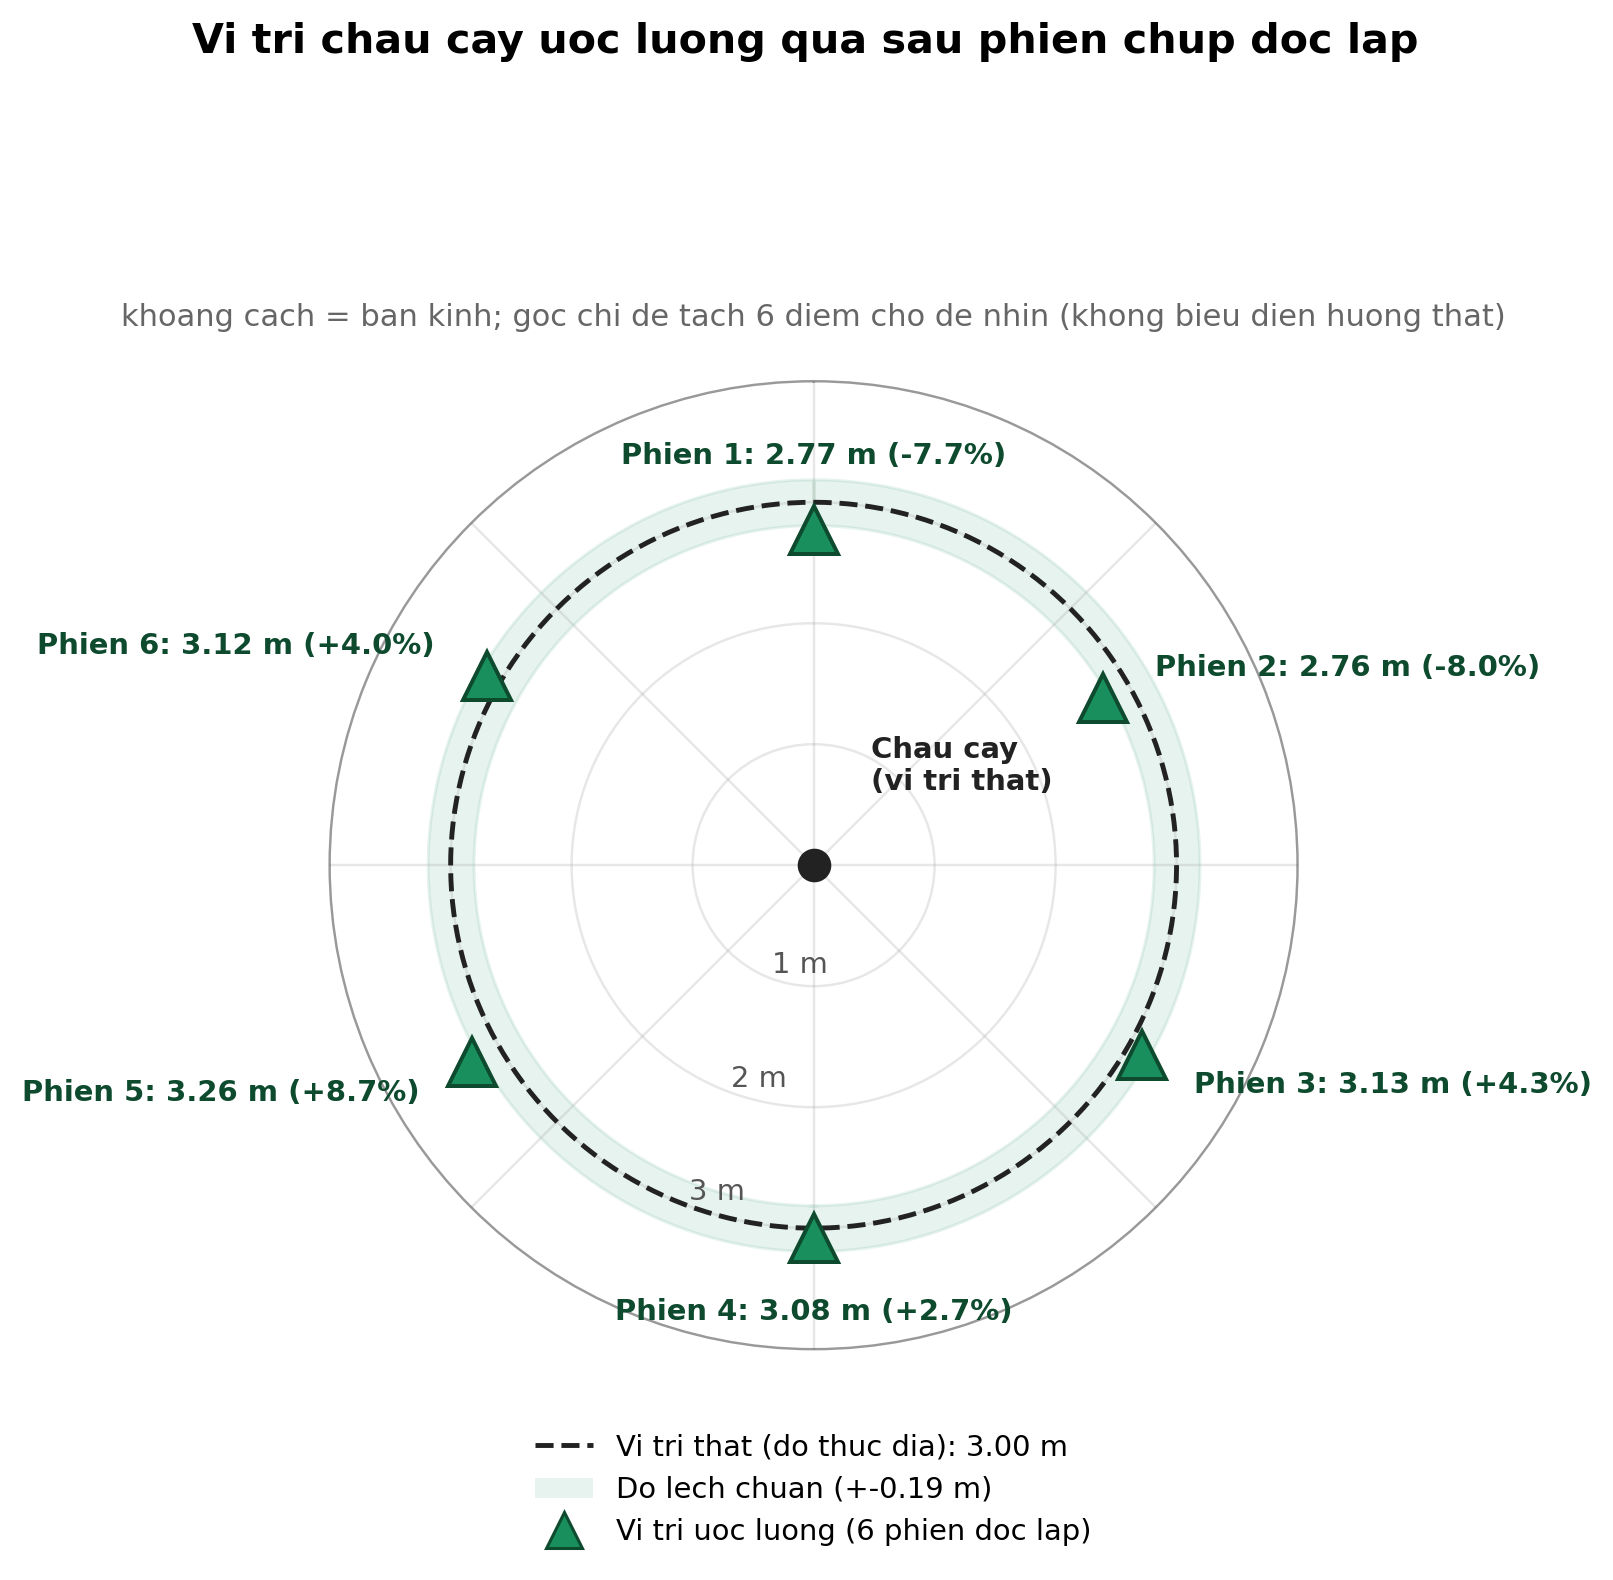
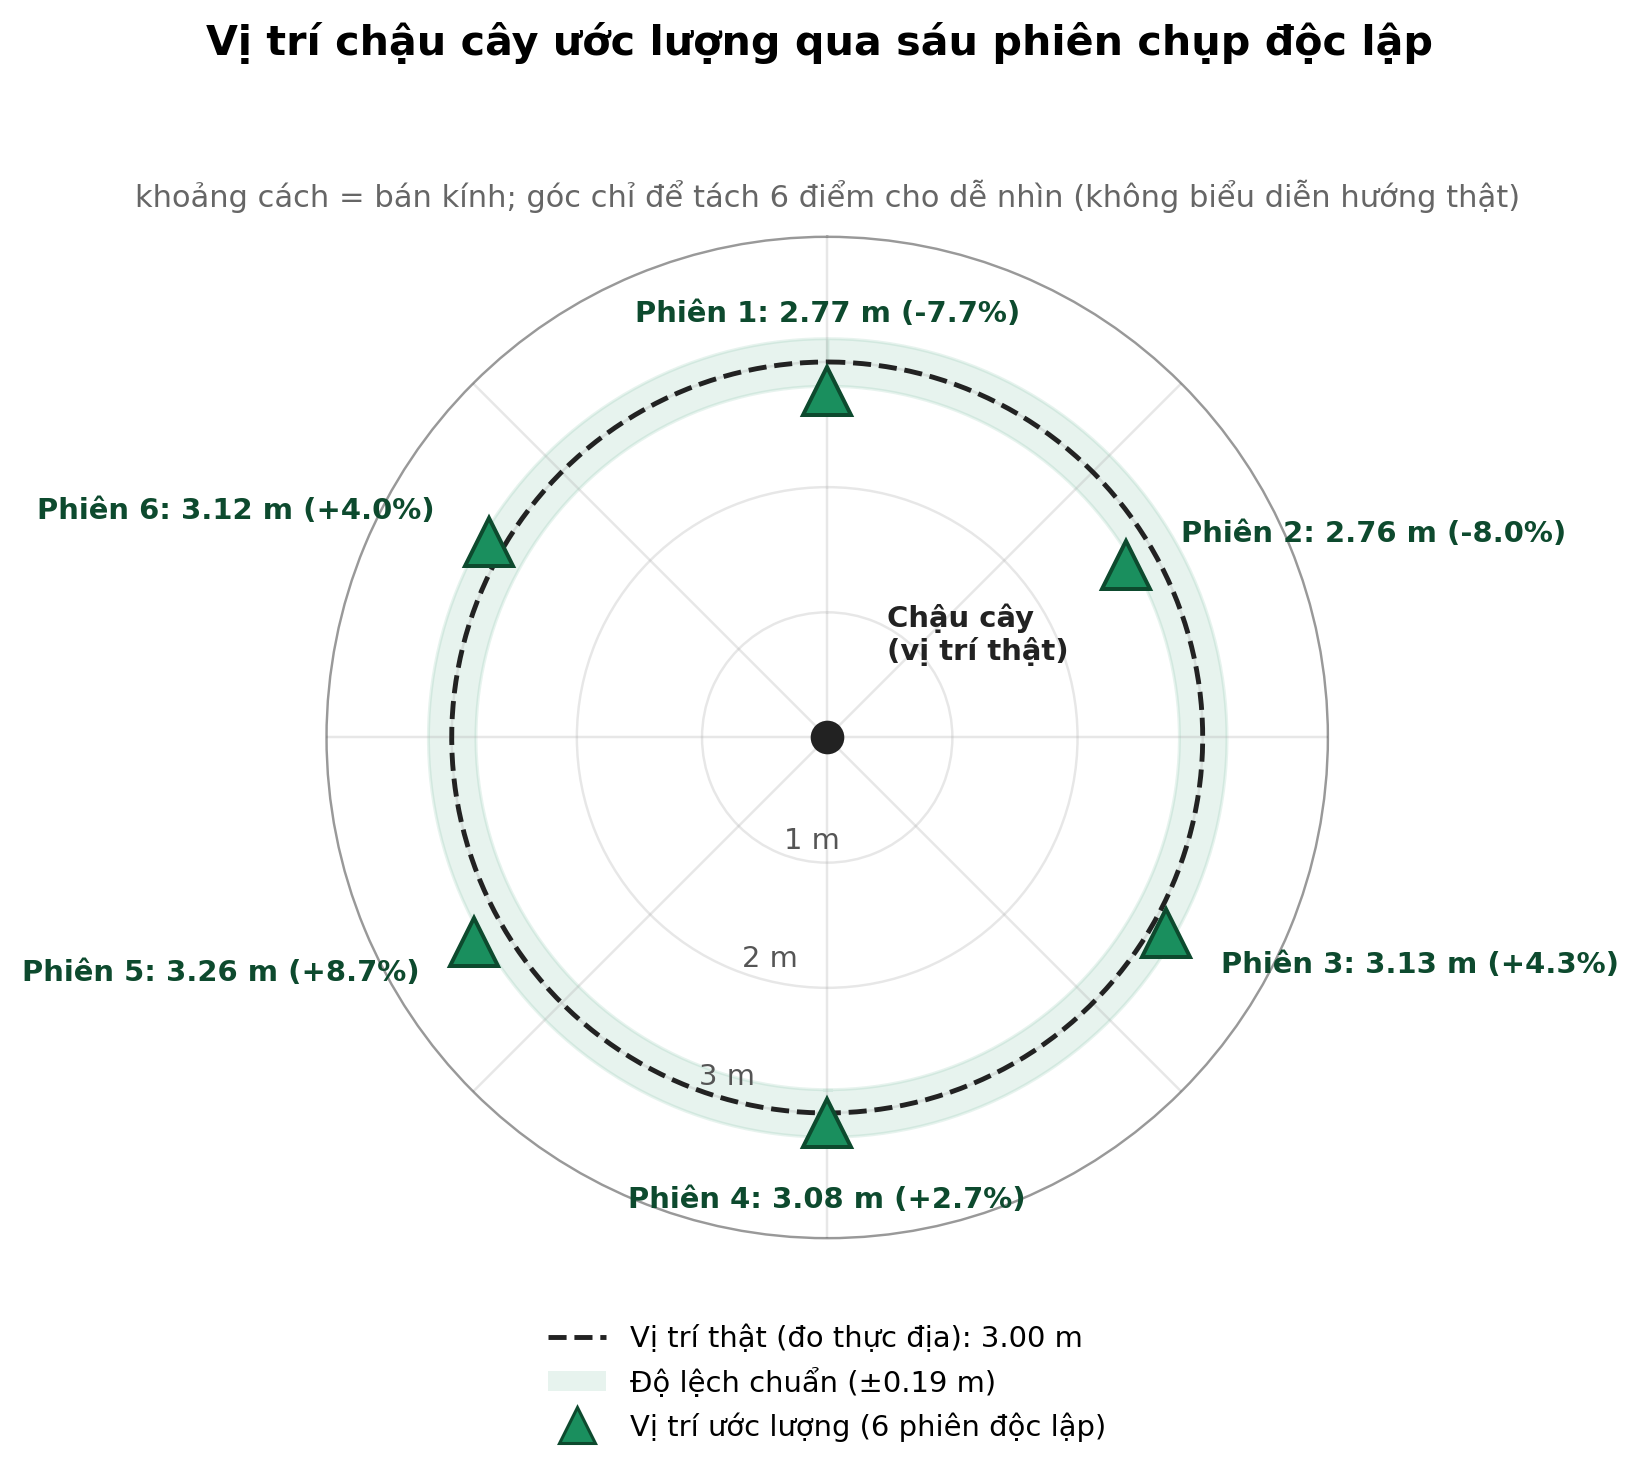
Sua bieu do dartboard: dung dau tieng Viet dung nhat quan voi cac hinh khac, giam khoang trang thua o tren

diff --git a/paper/drafts/plot_dartboard.py b/paper/drafts/plot_dartboard.py
@@ -3,7 +3,7 @@ matplotlib.use('Agg')
 import matplotlib.pyplot as plt
 import numpy as np
 
-labels = ['Phien 1', 'Phien 2', 'Phien 3', 'Phien 4', 'Phien 5', 'Phien 6']
+labels = ['Phiên 1', 'Phiên 2', 'Phiên 3', 'Phiên 4', 'Phiên 5', 'Phiên 6']
 dist = [2.77, 2.76, 3.13, 3.08, 3.26, 3.12]
 gt = 3.00
 std = 0.19
@@ -14,7 +14,7 @@ angles_rad = np.deg2rad(angles_deg)
 GREEN = '#1a8f5e'
 DARK = '#0d4a2e'
 
-fig = plt.figure(figsize=(7.2, 8.0), dpi=220)
+fig = plt.figure(figsize=(7.2, 7.0), dpi=220)
 ax = fig.add_subplot(111, projection='polar')
 ax.set_theta_zero_location('N')
 ax.set_theta_direction(-1)
@@ -33,7 +33,7 @@ ax.fill_between(theta_full, gt-std, gt+std, color=GREEN, alpha=0.10, zorder=1)
 ax.plot(theta_full, [gt]*len(theta_full), '--', color='#222', linewidth=1.6, zorder=2)
 
 ax.plot(0, 0, marker='o', markersize=10, color='#222', zorder=5)
-ax.annotate('Chau cay\n(vi tri that)', xy=(0, 0), xytext=(np.deg2rad(30), 0.95),
+ax.annotate('Chậu cây\n(vị trí thật)', xy=(0, 0), xytext=(np.deg2rad(30), 0.95),
             textcoords='data', fontsize=9.5, ha='left', va='center', color='#222', fontweight='bold')
 
 def label_align(deg):
@@ -57,19 +57,19 @@ for a, deg, r, lab in zip(angles_rad, angles_deg, dist, labels):
                 textcoords='data', fontsize=9.5, ha=ha, va=va, color=DARK, fontweight='bold')
 
 legend_elems = [
-    plt.Line2D([0], [0], color='#222', linestyle='--', linewidth=1.6, label=f'Vi tri that (do thuc dia): {gt:.2f} m'),
-    plt.Rectangle((0,0),1,1, facecolor=GREEN, alpha=0.10, label=f'Do lech chuan (+-{std:.2f} m)'),
+    plt.Line2D([0], [0], color='#222', linestyle='--', linewidth=1.6, label=f'Vị trí thật (đo thực địa): {gt:.2f} m'),
+    plt.Rectangle((0,0),1,1, facecolor=GREEN, alpha=0.10, label=f'Độ lệch chuẩn (±{std:.2f} m)'),
     plt.Line2D([0], [0], marker='^', color='w', markerfacecolor=GREEN, markeredgecolor=DARK,
-               markersize=12, label='Vi tri uoc luong (6 phien doc lap)'),
+               markersize=12, label='Vị trí ước lượng (6 phiên độc lập)'),
 ]
 ax.legend(handles=legend_elems, loc='upper center', bbox_to_anchor=(0.5, -0.06), fontsize=9.5, frameon=False, ncol=1)
 
-fig.suptitle('Vi tri chau cay uoc luong qua sau phien chup doc lap',
-              fontsize=13.5, y=0.98, fontweight='bold')
-ax.set_title('khoang cach = ban kinh; goc chi de tach 6 diem cho de nhin (khong bieu dien huong that)',
-              fontsize=10, color='#666', pad=18)
+fig.suptitle('Vị trí chậu cây ước lượng qua sáu phiên chụp độc lập',
+              fontsize=13.5, y=0.99, fontweight='bold')
+ax.set_title('khoảng cách = bán kính; góc chỉ để tách 6 điểm cho dễ nhìn (không biểu diễn hướng thật)',
+              fontsize=10, color='#666', pad=10)
 
-fig.tight_layout(rect=[0, 0.02, 1, 0.94])
-fig.savefig('/tmp/claude-1000/-home-ubuntu-Desktop/c43de420-f59a-4582-816c-284dba0703a9/scratchpad/fig_dartboard_v2.png',
+fig.tight_layout(rect=[0, 0.02, 1, 0.97])
+fig.savefig('/tmp/claude-1000/-home-ubuntu-Desktop/7015d3ad-0542-4555-9746-b94c4b9a9420/scratchpad/fig_dartboard_v2.png',
             dpi=220, bbox_inches='tight', facecolor='white')
 print('saved fig_dartboard_v2.png')
